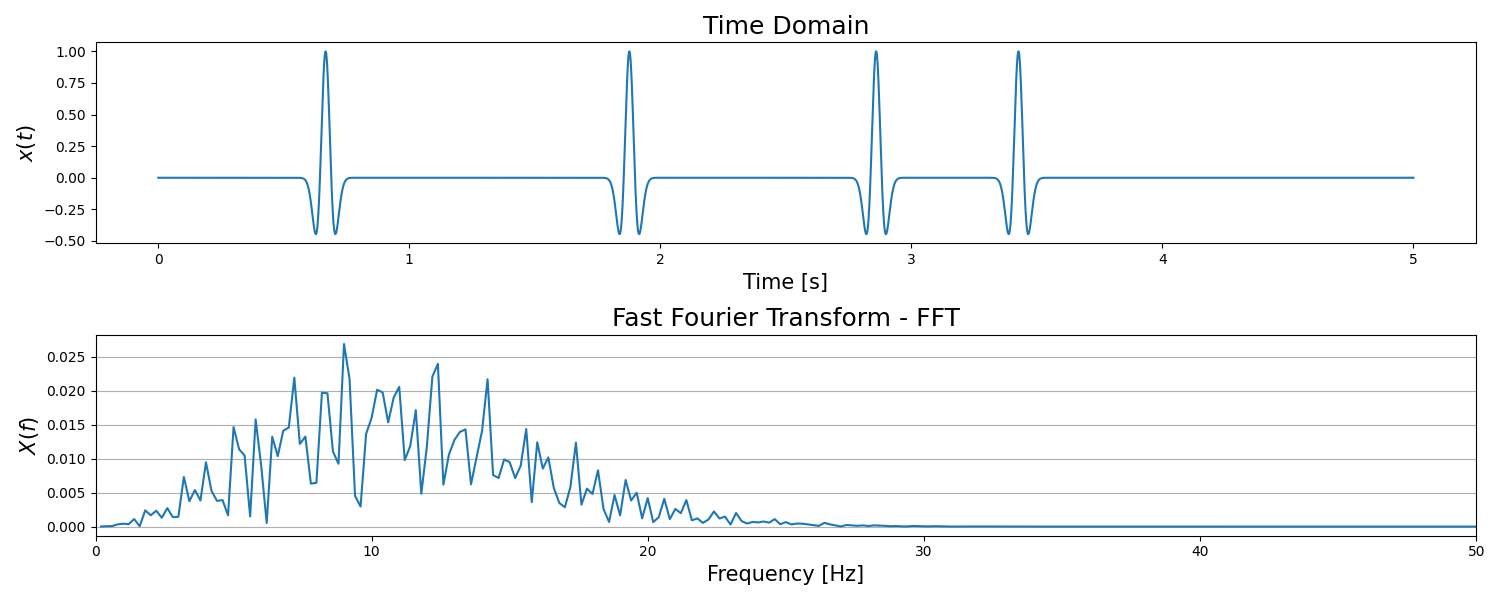
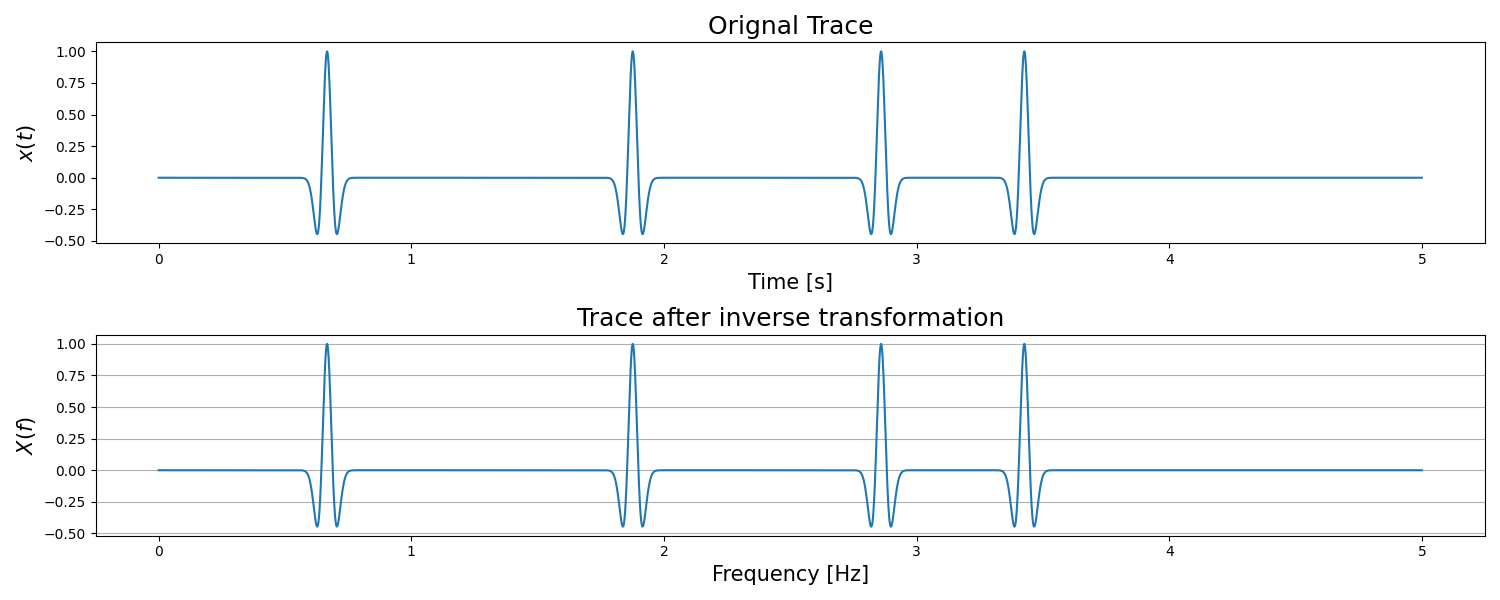
transformada inversa de fourier

diff --git a/signals_n_systems/fft.py b/signals_n_systems/fft.py
@@ -99,3 +99,28 @@ fig.tight_layout()
 plt.grid(axis = "y")
 fig.savefig('signals_n_systems/imagens/fft_trace161.png')
 plt.show()
+
+# -----------------------------------------------------------------------------
+# -----------------------------------------------------------------------------
+
+
+'''Trasnsformada Inversa de Fourier'''
+# ---------------------
+inverse_fourier = np.fft.ifft(Y1)
+
+fig, ax = plt.subplots(ncols = 1, nrows = 2, num = "TRASNFORMADA INVERSA DE FOURIER - TRAÇO 1", figsize = (15, 6))
+ax[0].set_title('Orignal Trace', fontsize = 18)
+ax[0].plot(t, trace1)
+ax[0].set_xlabel("Time [s]", fontsize = 15)
+ax[0].set_ylabel(r"$x(t)$", fontsize = 15)
+
+ax[1].set_title("Trace after inverse transformation", fontsize = 18)
+ax[1].plot(t, inverse_fourier)
+ax[1].set_xlabel("Frequency [Hz]", fontsize = 15)
+ax[1].set_ylabel(r"$X(f)$", fontsize = 15)
+
+fig.tight_layout()
+plt.grid(axis = "y")
+fig.savefig('signals_n_systems/imagens/fft_trace1.png')
+plt.show()
+
